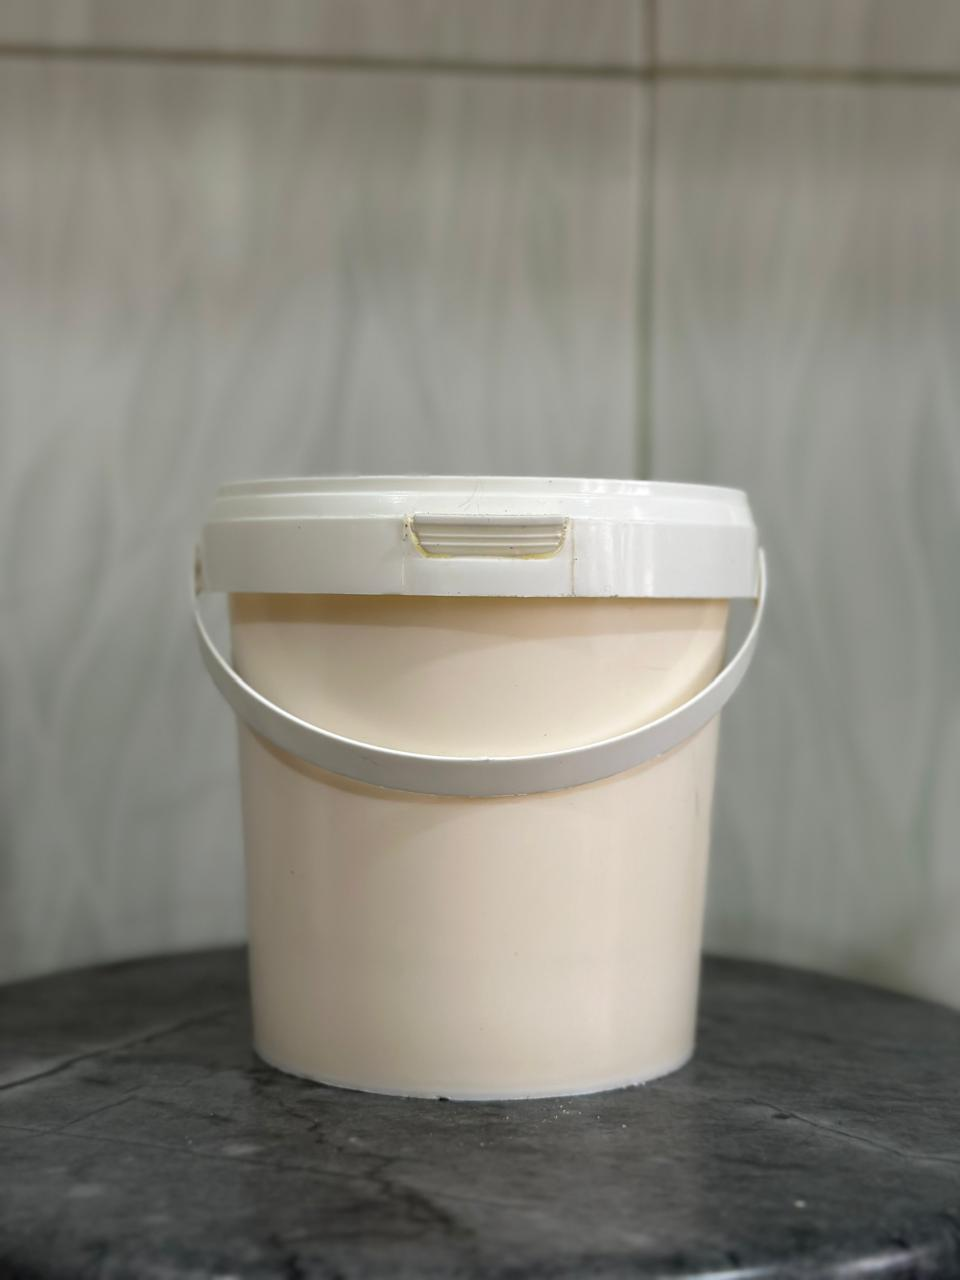
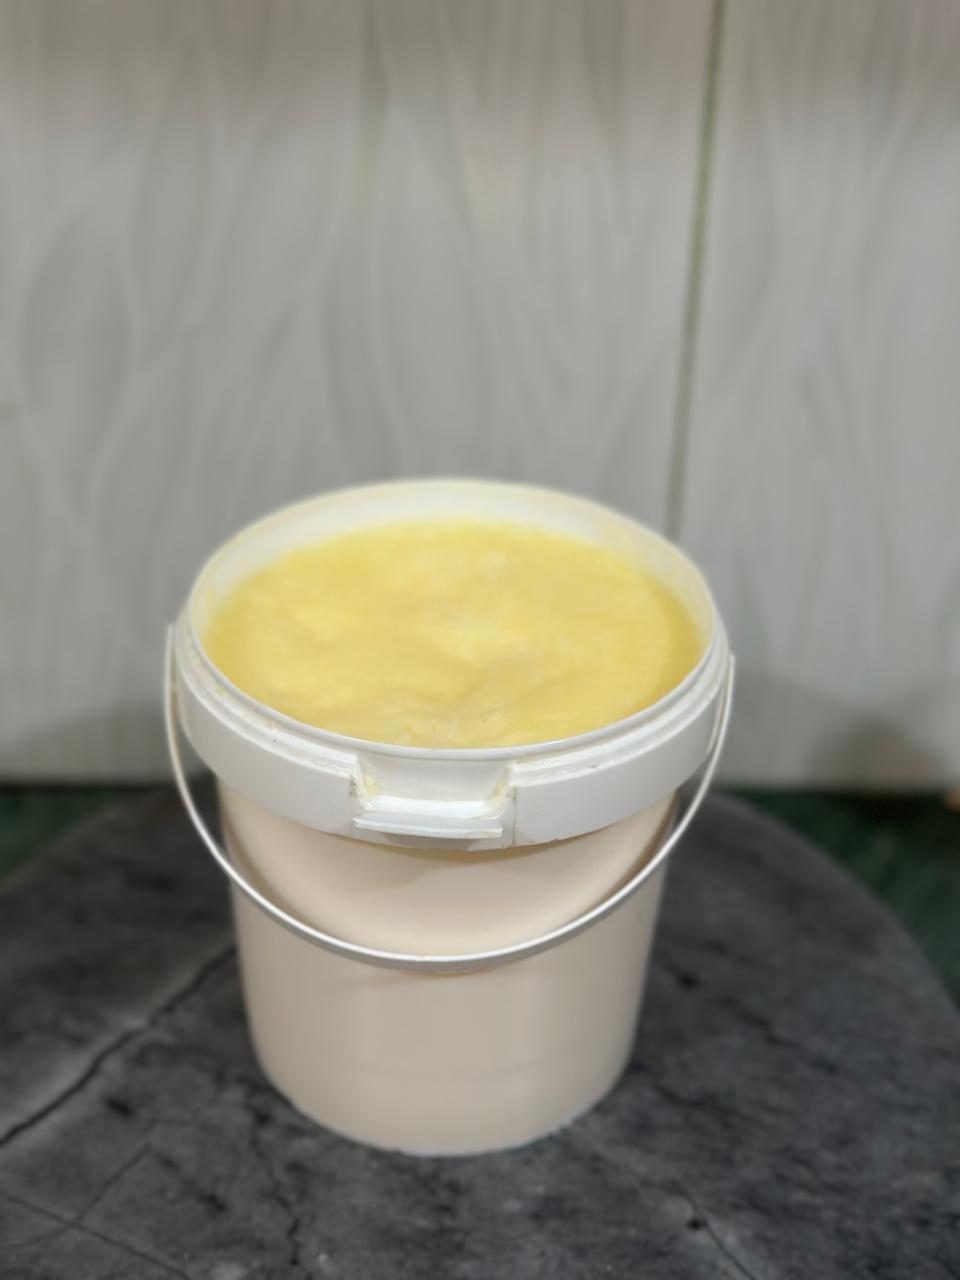
updated the what'snumber and instagram

diff --git a/src/data/productsData.js b/src/data/productsData.js
@@ -4,8 +4,9 @@ import pr3 from "../assets/products/product2.webp";
 import pr4 from '../assets/products/product2_2.webp'
 import desighee1 from '../assets/products/desighee1.jpeg'
 import desighee2 from '../assets/products/desighee2.jpeg'
-import desighee3 from '../assets/products/desighee6.jpeg'
-import desighee4 from '../assets/products/desighee5.jpeg'
+import desighee3 from '../assets/products/desighee3.jpeg'
+import desighee4 from '../assets/products/desighee4.jpeg'
+
 
 const productsData = [
   {
@@ -86,8 +87,8 @@ const productsData = [
     ],
 
     images: {
-      primary: desighee3,
-      gallery: [desighee3, desighee4 , desighee2, desighee1],
+      primary: desighee4,
+      gallery: [desighee4, desighee3  , desighee2, desighee1],
     },
 
     pricing: {
@@ -179,8 +180,8 @@ const productsData = [
     ],
 
     images: {
-      primary: desighee3,
-      gallery: [desighee3, desighee4 , desighee2, desighee1],
+      primary: desighee4,
+      gallery: [desighee4, desighee3 , desighee2, desighee1],
     },
 
     pricing: {

diff --git a/src/components/Footer.jsx b/src/components/Footer.jsx
@@ -1,4 +1,5 @@
 import { FaWhatsapp, FaInstagram } from "react-icons/fa";
+import { INSTAGRAM, WHATS_APP_NUMBER } from "../utils/constants";
 
 const Footer = () => {
   return (
@@ -40,7 +41,7 @@ const Footer = () => {
             </p>
 
             <a
-              href="https://wa.me/923XXXXXXXXX"
+              href={`https://wa.me/${WHATS_APP_NUMBER}`}
               target="_blank"
               className="inline-flex items-center gap-2 mt-4 bg-emerald-500 hover:bg-emerald-600 text-white px-5 py-2 rounded-full text-sm transition"
             >
@@ -48,9 +49,9 @@ const Footer = () => {
               Chat on WhatsApp
             </a>
 
-            <div className="flex gap-3 mt-5 justify-center md:justify-start">
+            <a href={INSTAGRAM} target="_blank" className="flex gap-3 mt-5 justify-center md:justify-start w-fit">
               <FaInstagram className="text-lg hover:text-white cursor-pointer transition" />
-            </div>
+            </a>
           </div>
 
         </div>

diff --git a/src/components/ProductHead.jsx b/src/components/ProductHead.jsx
@@ -5,6 +5,7 @@ import { GrDeliver } from "react-icons/gr";
 import ProductImageContainer from "./ProductImageContainer";
 import { Link, useParams } from "react-router-dom";
 import productsData from "../data/productsData";
+import { WHATS_APP_NUMBER } from "../utils/constants";
 
 
 const ProductHead = () => {
@@ -13,12 +14,12 @@ const ProductHead = () => {
   const {description, features, images, pricing, title, productContent} = productsData.find(p => p.slug == slug)
   
   const handleOrder = ()=>{
-    const phone = "[phone redacted]"; // your WhatsApp number
+   
     const message = `Hello, I want to order ${title.short}.
 
-  Product: ${title.full}`;
+Product: ${title.full}`;
 
-  const url = `https://wa.me/${phone}?text=${encodeURIComponent(message)}`
+  const url = `https://wa.me/${WHATS_APP_NUMBER}?text=${encodeURIComponent(message)}`
   window.open(url, "_blank")  
 }
 

diff --git a/src/components/CTASection.jsx b/src/components/CTASection.jsx
@@ -1,4 +1,5 @@
 import { FaWhatsapp } from "react-icons/fa";
+import { WHATS_APP_NUMBER } from "../utils/constants";
 
 const CTASection = () => {
   return (
@@ -18,7 +19,7 @@ const CTASection = () => {
 
         {/* Button */}
         <a
-          href="https://wa.me/923242108192"
+          href={ `https://wa.me/${WHATS_APP_NUMBER}`}
           target="_blank"
           rel="noopener noreferrer"
           className="mt-8 inline-flex items-center gap-2 bg-emerald-500 hover:bg-emerald-600 text-white px-6 py-3 rounded-full text-sm sm:text-base font-medium transition shadow-md hover:shadow-lg"

diff --git a/src/components/Hero.jsx b/src/components/Hero.jsx
@@ -1,5 +1,5 @@
 import React from "react";
-import farm from "../assets/products/desighee7.jpeg";
+import farm from "../assets/products/desighee4.jpeg";
 import { FaStar } from "react-icons/fa";
 
 import { ImPower } from "react-icons/im";

diff --git a/src/utils/constants.js b/src/utils/constants.js
@@ -1,0 +1,2 @@
+export const WHATS_APP_NUMBER = "923435230886"
+export const INSTAGRAM = 'https://www.instagram.com/desigheescenes'